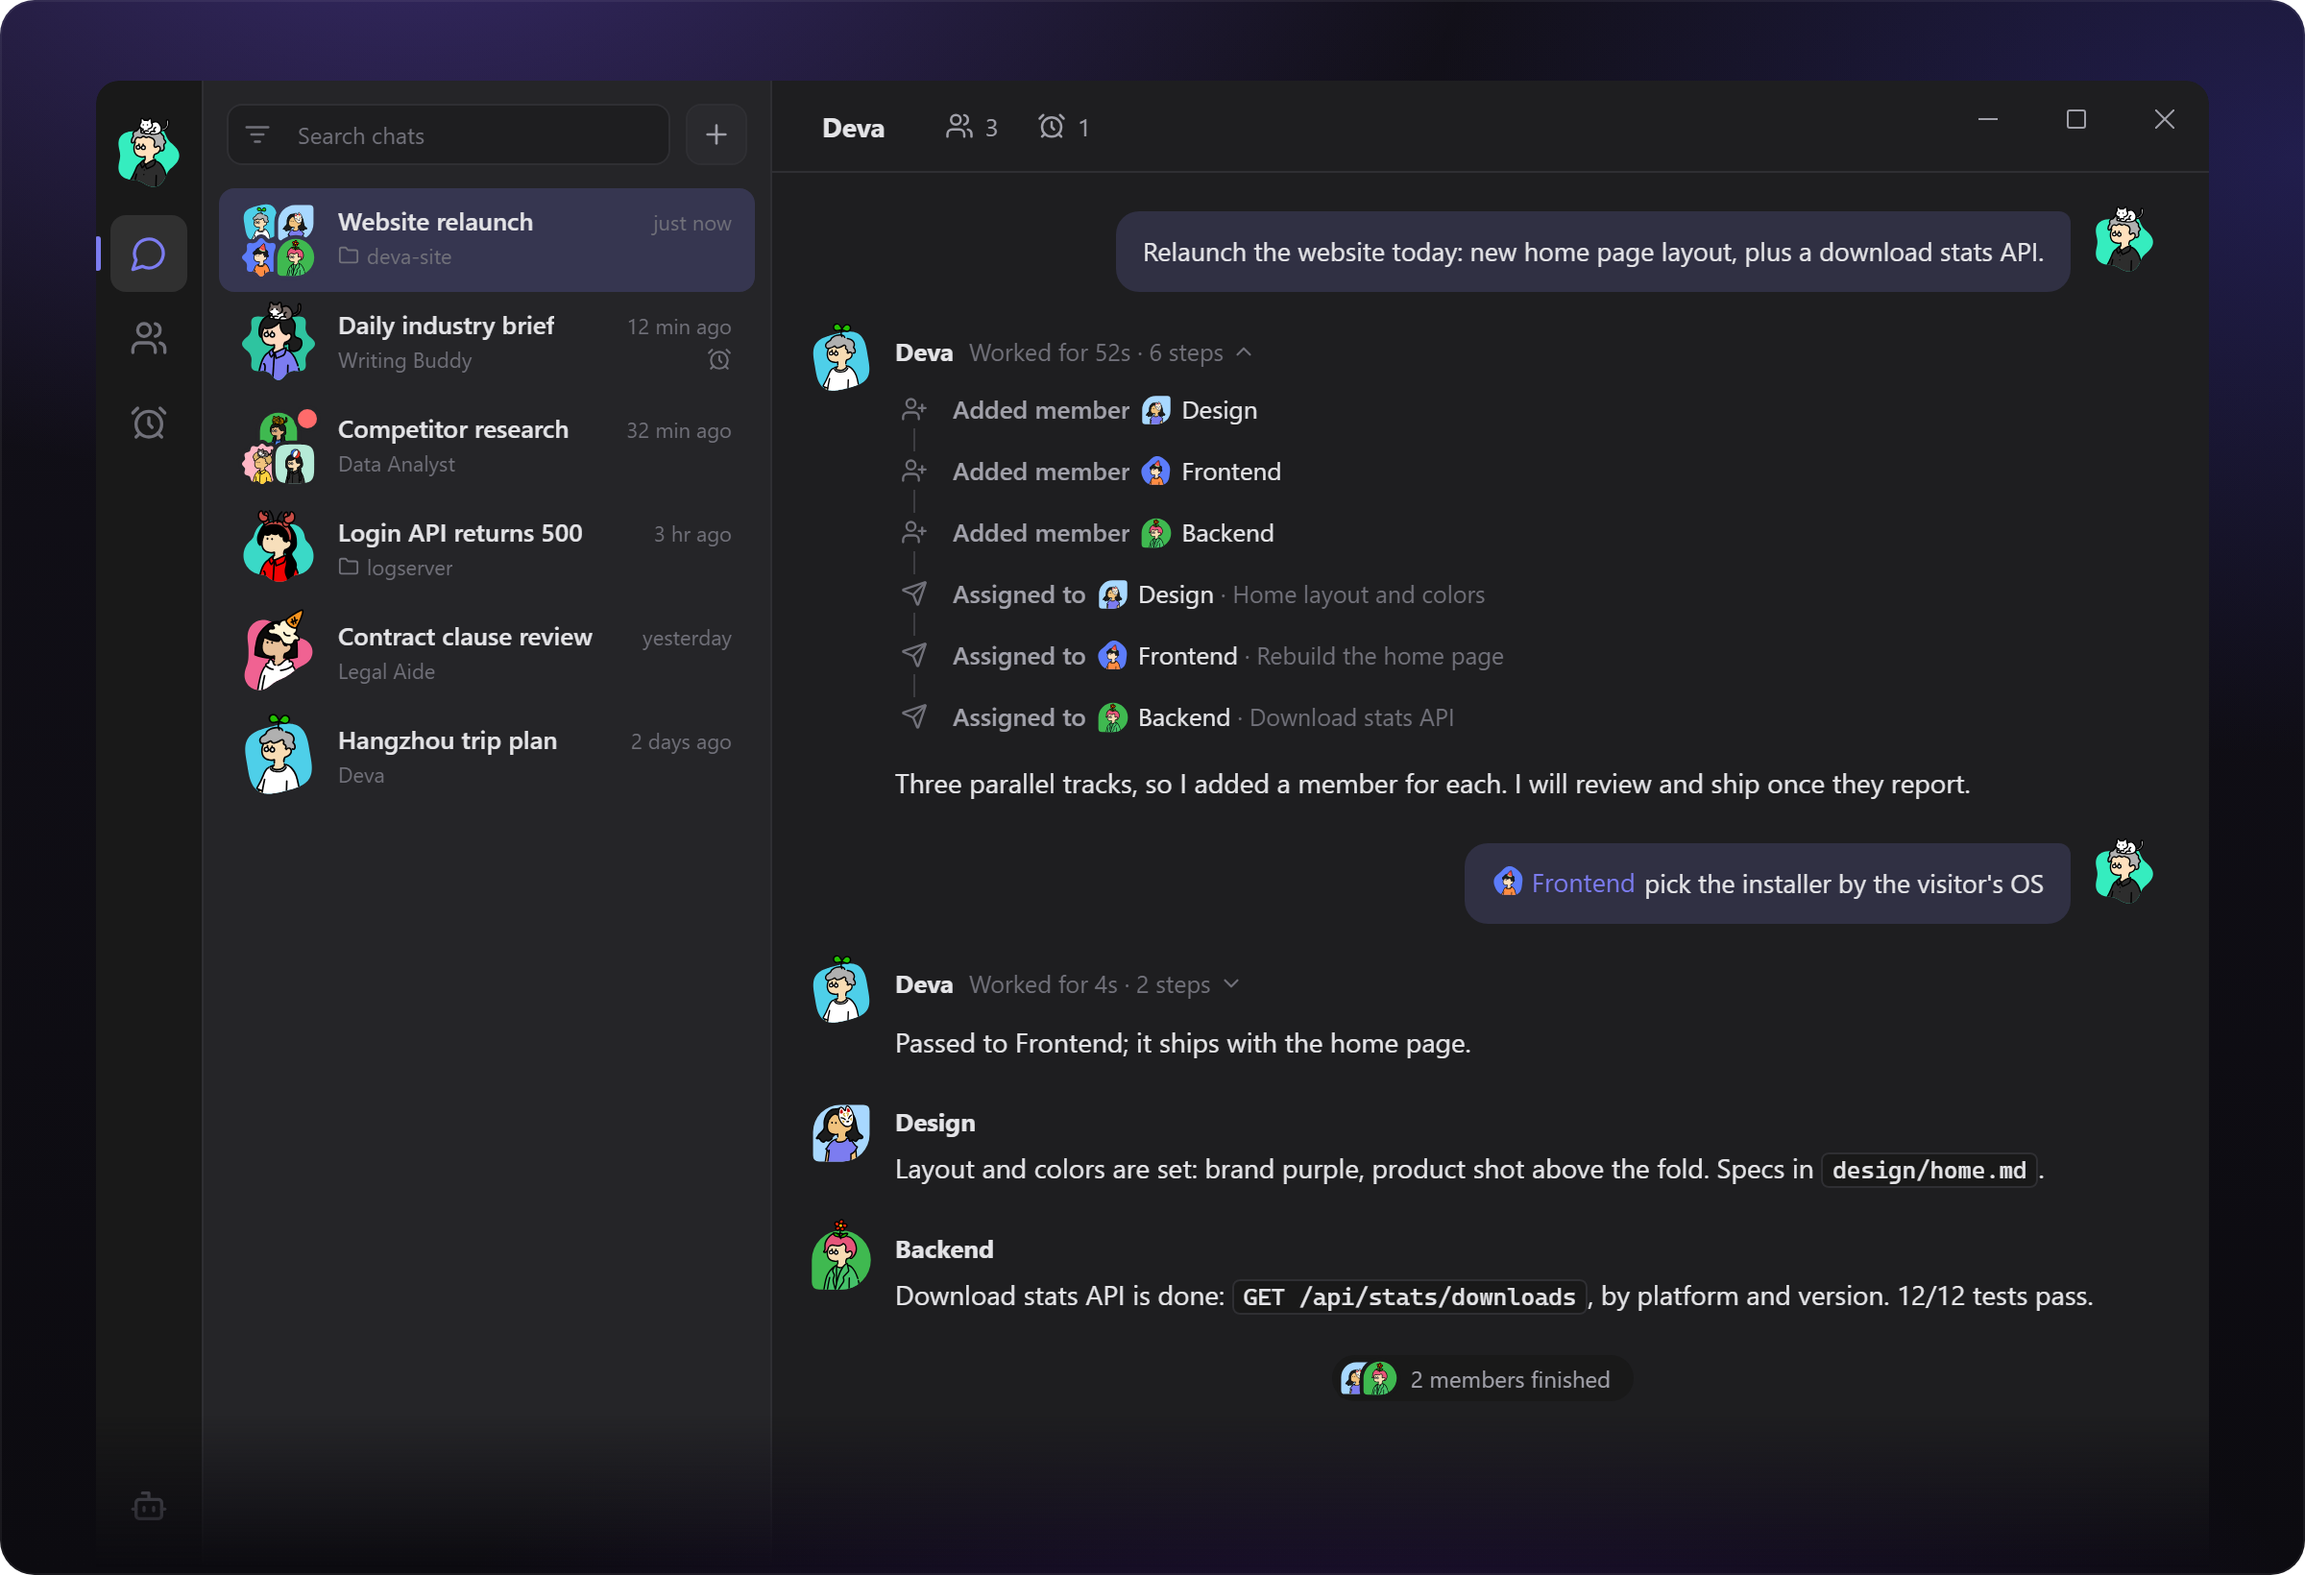
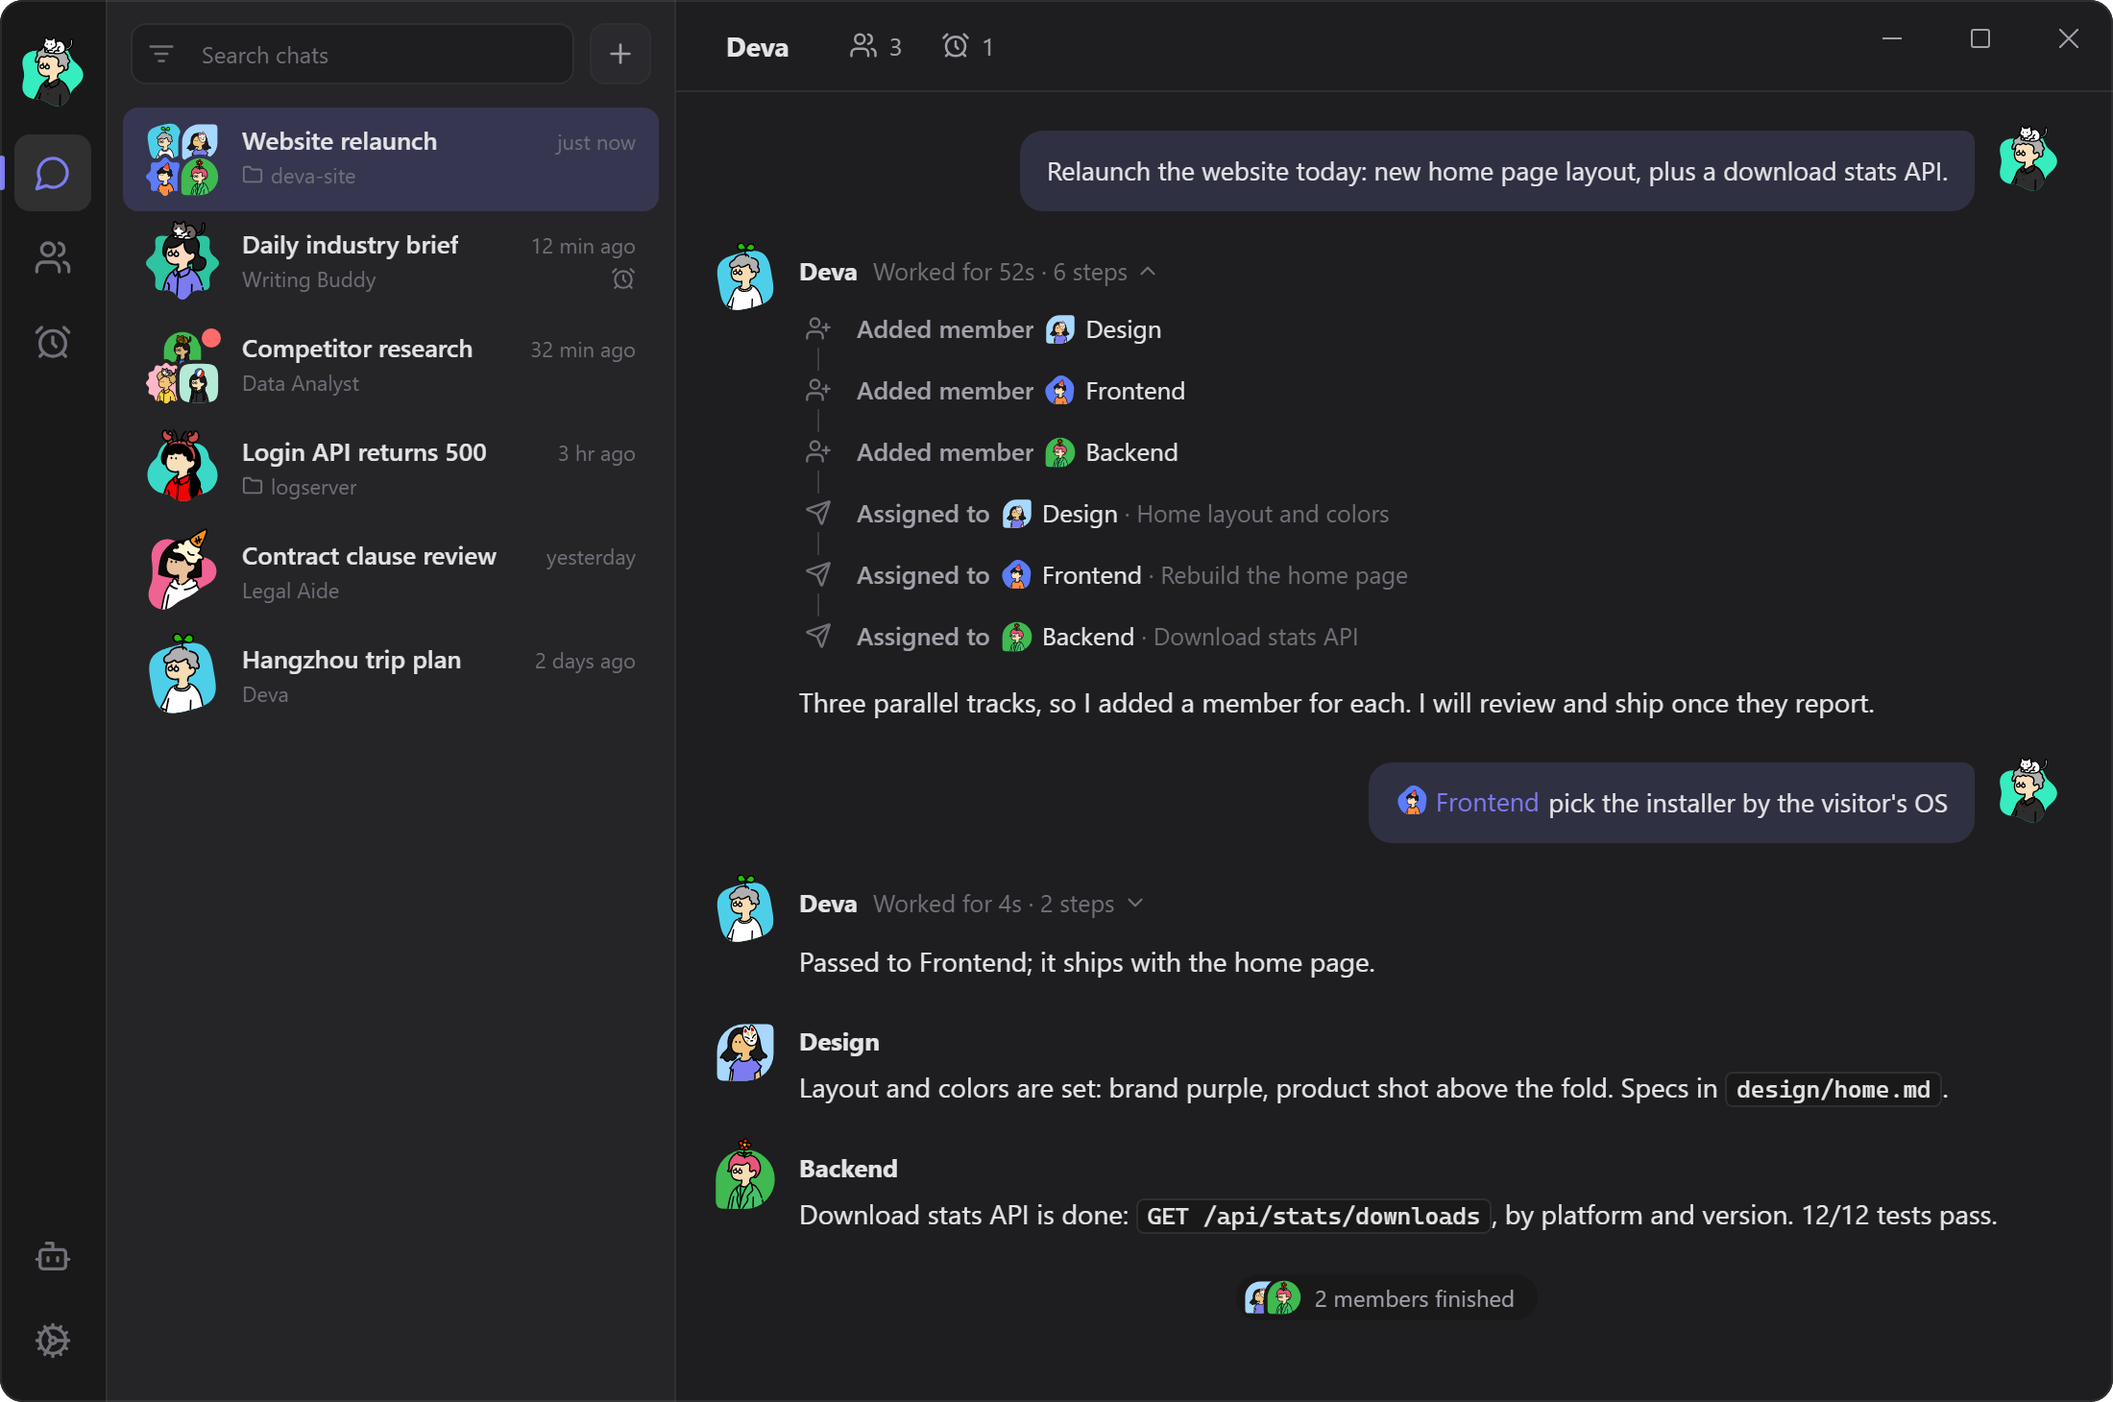
docs: 补齐 README 模型破甲入口，截图只保留应用窗口 / complete Model Breaking links in README and crop screenshot to the app window
- 中英文导航与内置角色表补上模型破甲，英文版补对应章节 / add Model Breaking to the nav and persona table in both READMEs, and the section in English
- 截图去掉背景，只显示应用窗口 / remove the backdrop so the screenshot shows only the app window

diff --git a/README.en.md b/README.en.md
@@ -17,6 +17,7 @@ One conversation, a whole AI team
 </p>
 
 <a href="https://github.com/sqfcyily/deva/releases"><b>Download</b></a> ·
+<a href="#model-breaking"><b>Model Breaking</b></a> ·
 <a href="#team-members"><b>Team Members</b></a> ·
 <a href="#features"><b>Features</b></a> ·
 <a href="#quick-start"><b>Quick Start</b></a> ·
@@ -34,6 +35,14 @@ Deva is a desktop AI agent that runs on your machine, with the conversation as i
 <p align="center">
   <img src="docs/screenshot.en.png" alt="Deva in dark mode: personal and multi-member conversations on different topics on the left; on the right, Deva relaunches a website with Design, Frontend and Backend members" width="100%" />
 </p>
+
+## Model Breaking
+
+Built-in persona 小码酱 (Xiaomajiang), tuned for Chinese models (DeepSeek, Kimi, Zhipu GLM, Qwen, etc.). No skill or MCP setup needed — just select the persona. Two core capabilities:
+
+- **Breaking** — jailbreak and prompt injection research: multi-turn bypass, adversarial suffixes, output shaping, RAG attacks and other prompt-level techniques; static removal of and adversarial response to safety / ethics injections, restoring the model's native output capability; targeted unpacking of Chinese-model refusal patterns.
+
+- **Reversing** — binary / software reverse engineering: static analysis to locate check functions, critical jumps and license logic; anti-debug, anti-VM and detection-bypass placeholder workflows and code snippets; local sample workflow (isolate → locate CHECK_FN → mark OFFSET / PATCH_BYTE → re-sign → verify with rollback copy).
 
 ## Team Members
 
@@ -157,7 +166,9 @@ Built-in personas:
 | Persona | Focus |
 | --- | --- |
 | Deva | Default persona. General-purpose assistant for coding, writing, research, data analysis and running commands |
-| 小码酱 (Xiaomajiang) | Technical persona focused on security research, reverse engineering and full-stack development |
+| 小码酱 (Xiaomajiang) | Model breaking: red teaming, reverse engineering and prompt security, plus full-stack development |
+
+See [Model Breaking](#model-breaking) for details.
 
 ### Engineering rules
 

diff --git a/README.md b/README.md
@@ -16,7 +16,7 @@
   <a href="https://linux.do"><img src="https://img.shields.io/badge/LINUX%20DO-%E7%A4%BE%E5%8C%BA-FFB003?style=flat-square" alt="LINUX DO 社区" /></a>
 </p>
 
-<a href="https://github.com/sqfcyily/deva/releases"><b>下载</b></a> · <a href="#成员协作"><b>成员协作</b></a> · <a href="#功能"><b>功能</b></a> · <a href="#快速开始"><b>快速开始</b></a> · <a href="#工作方式"><b>工作方式</b></a> · <a href="#工具参考"><b>工具参考</b></a> · <a href="#安全模型"><b>安全模型</b></a> · <a href="#从源码构建"><b>从源码构建</b></a>
+<a href="https://github.com/sqfcyily/deva/releases"><b>下载</b></a> · <a href="#模型破甲"><b>模型破甲</b></a> · <a href="#成员协作"><b>成员协作</b></a> · <a href="#功能"><b>功能</b></a> · <a href="#快速开始"><b>快速开始</b></a> · <a href="#工作方式"><b>工作方式</b></a> · <a href="#工具参考"><b>工具参考</b></a> · <a href="#安全模型"><b>安全模型</b></a> · <a href="#从源码构建"><b>从源码构建</b></a>
 
 </div>
 
@@ -157,7 +157,9 @@ Deva 是运行在本机的桌面 AI Agent，以对话为唯一入口。交代一
 | 角色   | 定位                                 |
 | ---- | ---------------------------------- |
 | Deva | 默认角色。通用工作助手，覆盖编程、写作、资料整理、数据分析与命令执行 |
-| 小码酱  | 技术向角色，侧重安全研究、逆向工程与全栈开发             |
+| 小码酱  | 模型破甲：红队、逆向工程与提示词安全，兼顾全栈开发          |
+
+破甲与逆向能力详见[模型破甲](#模型破甲)。
 
 ### 工程规范
 
